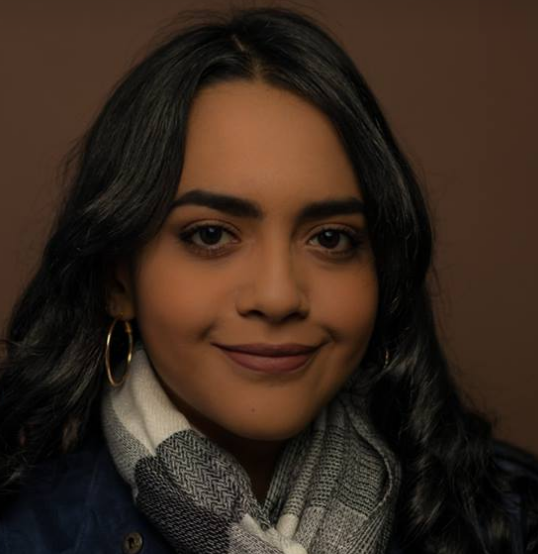
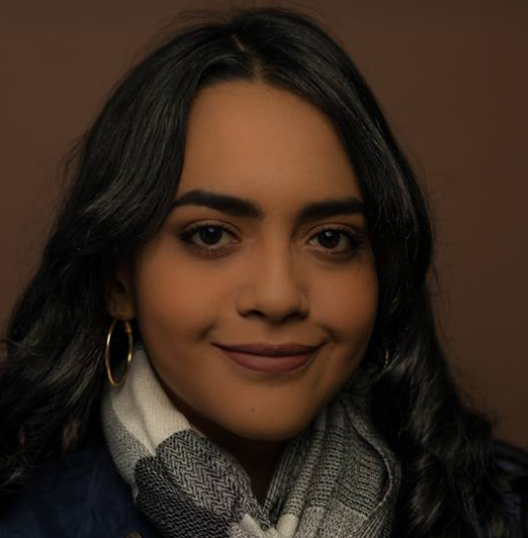
primeros avances

diff --git a/css/style.css b/css/style.css
@@ -60,7 +60,8 @@ h4{
 }
 
 .slider{
-    margin: -40px;
+    margin-top: -40px;
+    margin-bottom: -40px;
     background-color: rgba(0,0,0,0);
 }
 
@@ -76,12 +77,19 @@ h4{
     max-width: 80%;
 }
 
-.participante{
-    max-width: 100px;
-    max-height: 200px;
-    margin: -10;
+.persontag{
+    background-color: #059B61;
+    color: white;
+    border-radius: 10px;
 }
 
-.sls{
- text-align: center;   
+.img-persontag{
+    max-width: 180px;
+    max-height: 200px;
+    box-shadow: 10px 15px 15px #222222;
 }
+
+.lop{
+    padding: 1%;
+}
+

diff --git a/index.html b/index.html
@@ -32,7 +32,8 @@
     </div>
   </nav>
   <center>
-    <div class="jumbotron slider">
+      <div class="container-fluid">
+    <div class="jumbotron slider container-fluid">
     <h2 class="texto"><b>INGENIERÍA INFORMÁTICA</b></h2>
     <!-- Carrusel-->
     <div id="myCarousel" class="carousel slide shorter" data-ride="carousel">
@@ -126,6 +127,7 @@
         <span class="glyphicon glyphicon-chevron-right"></span>
         <span class="sr-only">Next</span>
       </a>
+    </div>
     </div>
     </div>
     <br><br>

diff --git a/html/asociacion.html b/html/asociacion.html
@@ -31,14 +31,11 @@
     </div>
   </div>
 </nav>
+
 <div class="jumbotron construyendo">
     <img class="img_construccion img-rounded" src="../images/en-construccion.png">
 </div> 
-<div class="container-fluid">
-    <div class="">
-    </div>
 
-</div>
 </body>
 <script src="../js/jquery-2.2.4.js"></script>
 <script src="../js/bootstrap.js" charset="utf-8"></script>
